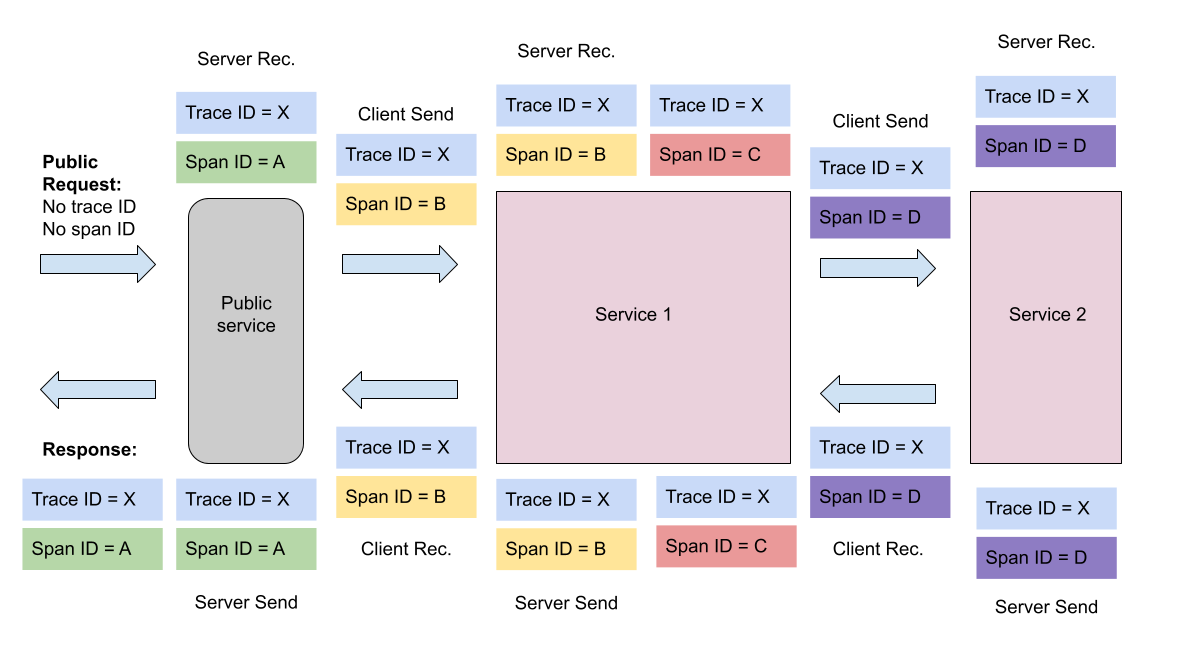
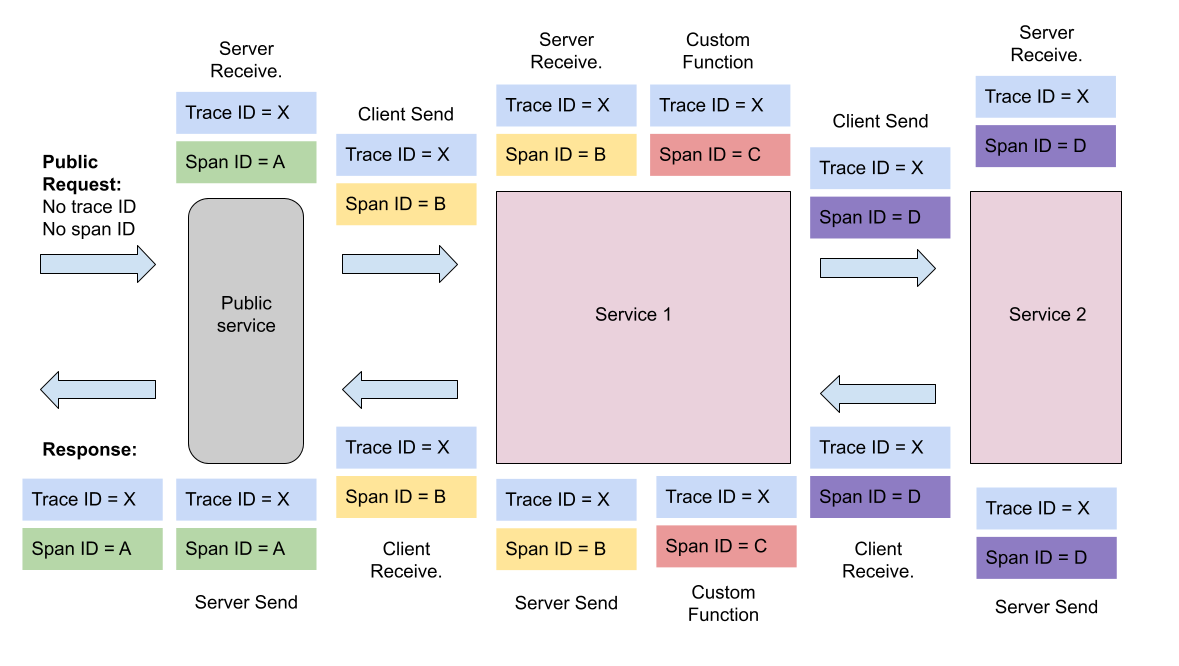
updates to spring cloud sleuth article

diff --git a/_source/_posts/2021-07-26-spring-cloud-sleuth.md b/_source/_posts/2021-07-26-spring-cloud-sleuth.md
@@ -24,13 +24,17 @@ In this tutorial, you will see how Spring Cloud Sleuth can be integrated into a 
 
 ## What is Spring Cloud Sleuth?
 
-Spring Cloud Sleuth's solution is to inject **span** and **trace** IDs into log entries. A **trace** ID is the unique identifier that an entire request flow will share. It's like the glue that sticks all of the log entries together. A **span** is more local and is defined for each request received for each request sent event. They define particular interaction points.
+Spring Cloud Sleuth's solution is to inject **span** and **trace** IDs into log entries. A **trace** ID is the unique identifier that an entire request flow will share. It's like the glue that sticks all of the log entries together. A **span** is more local and is defined for each request received for each request sent event. They define particular interaction points. Spans can also be created for separate, discrete units of work within a process. These are called **custom spans**. Think of a span as a discrete chunk of processing or communication to be tracked.
 
 The initial span, or **root span**, is generated when a client request is received from outside the distributed system. This request lacks **trace** and **span** information. The root span becomes the trace ID for the rest of the request flow through the system.
 
 The diagram below shows how Sleuth span and trace generation would work through a hypothetical service network.
 
 {% img blog/spring-cloud-sleuth/sleuth-example-diagram.png alt:"Select OIDC app type" width:"800" %}{: .center-image }
+
+Notice how in the diagram above, the trace is the same throughout the entire processing flow. A trace will tie a tree of branching processing functions and server requests into a single, trackable unit. Also notice how each request to a new service automatically starts a new span. However, there is also a custom function. In this case, the process has started a side-process and has manually created and terminated a span.
+
+You can read more about how spans and traces work in Slueth by looking at [Spring's documentation on the subject](https://docs.spring.io/spring-cloud-sleuth/docs/current/reference/html/getting-started.html#getting-started).
 
 In practice, the span and trace IDs look like the following in log entries (the bracketed section after the `INFO`). Notice how the span ID and trace ID are the same? That's because this is the root span, the beginning of the request tree identified by that particular trace ID.
 
@@ -315,7 +319,7 @@ You're going to make a simple GET request to **service A** on endpoint `/a`. **S
 
 {% img blog/spring-cloud-sleuth/services-request-flow-diagram.png alt:"Spring Initializr" width:"1000" %}{: .center-image }
 
-This example is a little contrived, but the point is to show you how each log even will have a unique Sleuth span value while the entire request flow will share the same trace value.
+This example is a little contrived, but the point is to show you how each log event will have a unique Sleuth span value while the entire request flow will share the same trace value.
 
 Make a request to service A endpoint `/a` using the JWT you just created.
 
@@ -351,7 +355,7 @@ All of these log entries have the Sleuth span and trace IDs injected into them, 
 ```bash
 [Service A,ef0fe81ff18325ff,ef0fe81ff18325ff]
 [SERVICE NAME, TRACE, SPAN]
-``` 
+```
 
 Notice how the first ID is the same for all three entries. That's the Sleuth trace ID that ties the entire request sequence together. Also, notice that for the entries for service A, the span and trace IDs are actually the same. That's because this is the initial Sleuth logging event that kicks off the request tree, so that ID is the ID of the root span, which becomes the trace ID for the rest of the tree.
 
